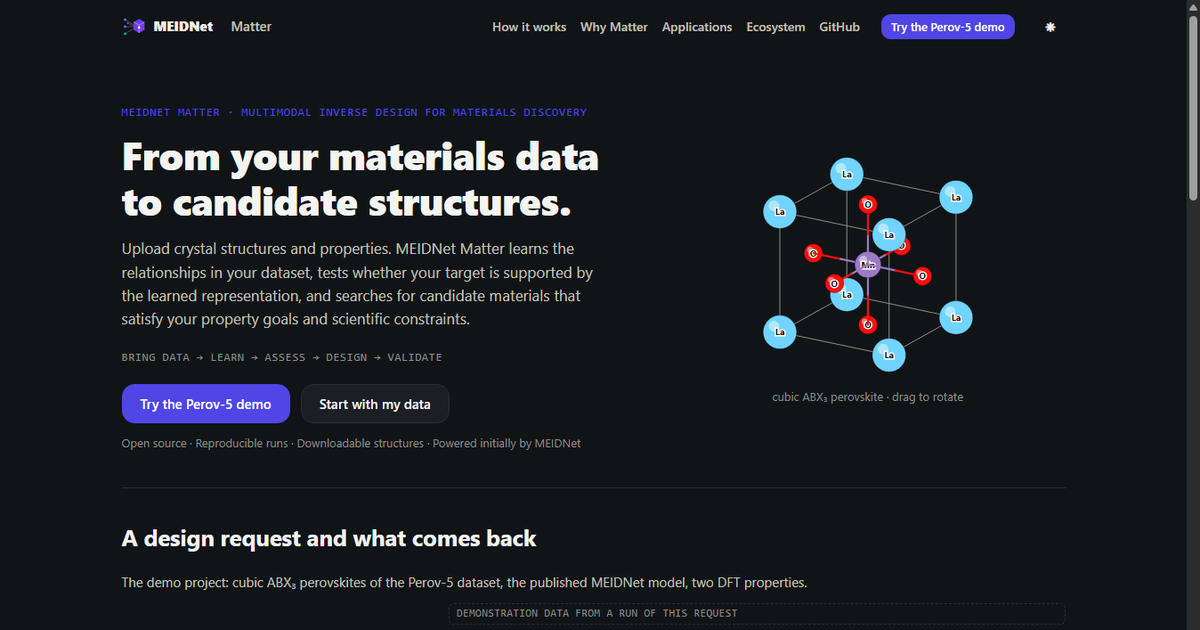
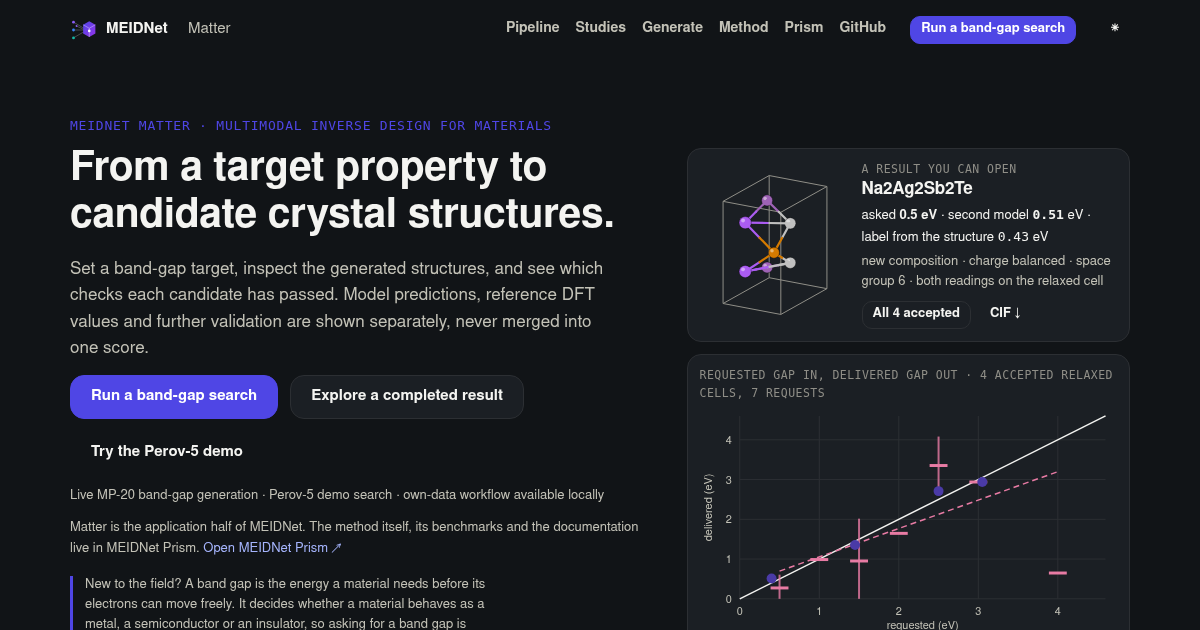
Front door: what Matter does in five lines, one main action, titles per page
README and the Space card: what, for whom, input, output, time. Page title, description, preview image and package
summary no longer promise an upload. Run a band-gap search is the one main action in the header and on the home page.
Every page has its own title; /demo leads to the demo and the old landing page is gone. The scope document describes
the two demo models, their trade-off and live generation without a template.

diff --git a/frontend/src/copy/landing.ts b/frontend/src/copy/landing.ts
@@ -1,45 +1,4 @@
 export const landing = {
-  eyebrow: 'MEIDNet Matter',
-  descriptor: 'Multimodal inverse design for materials discovery',
-  h1: 'From your materials data to candidate structures.',
-  lead: 'Upload crystal structures and properties. MEIDNet Matter learns the relationships in your dataset, tests whether your target is supported by the learned representation, and searches for candidate materials that satisfy your property goals and scientific constraints.',
-  promise: 'Bring data → learn → assess → design → validate',
-  ctaPrimary: 'Try the Perov-5 demo',
-  ctaSecondary: 'Start with my data',
-  trust: 'Open source · Reproducible runs · Downloadable structures · Powered initially by MEIDNet',
-  previewTitle: 'A design request and what comes back',
-  previewLead: 'The demo project: cubic ABX₃ perovskites of the Perov-5 dataset, two DFT properties and two MEIDNet models; the request below was run with the published model.',
-  how: [
-    ['Define the goal', 'Set a target value or range for each property and the chemistry rules a candidate must satisfy.'],
-    ['Check readiness', 'Matter measures how well the model predicts each property on held-out data, where your target sits in the training distribution and how many structures share it.'],
-    ['Search', 'A latent-space search proposes structures, decodes them and keeps those that satisfy the rules and the target.'],
-    ['Validate', 'Each candidate carries its predictions, domain status, rule results, nearest training materials and its stage on a six-step validation ladder. Export CIFs and targets.csv for MLIP screening, DFT or experiment, and score them on Prism.'],
-  ],
-  why: [
-    ['Know when not to trust the inverse', 'Before a search runs, the readiness report states whether the target lies inside the model\'s training range and how well each property is predicted on held-out data.'],
-    ['One property target, many possible structures', 'When many training materials share the target value, Matter says so, groups the candidates into clusters of alternatives and lets you prioritise target accuracy, diversity, stability or novelty.'],
-    ['Every candidate comes with evidence', 'Nearest training materials, latent distances, rule values, and the agreement between the encoder and the search are shown for every candidate.'],
-    ['Reproducible by design', 'A run bundle holds the goal, the model identity, the seed, the search settings, the candidates and their CIFs, with file hashes.'],
-  ],
-  applications: [
-    ['Oxide perovskites with a target band gap', 'The demo: a direct band gap near 2 eV with a bounded formation enthalpy, lead excluded.'],
-    ['Lead-free halide perovskites', 'The same workflow on the halide variant; the readiness report shows which anions the training data cover.'],
-    ['Double perovskites', 'A₂BB′X₆ cells with two B-site elements, with the same rules and evidence.'],
-  ],
-  scope: 'Matter currently searches property-conditioned candidates within supported structural families. Free-geometry crystal generation is planned as additional design backends mature.',
-  ecosystem: [
-    ['MEIDNet Prism', 'Learn · Benchmark · Develop', 'Learn the method, benchmark any model with the same metric families as LeMat-GenBench, develop with the meidnet package and the Studio.'],
-    ['MEIDNet Matter', 'Design & Discover', 'Bring data, define targets, check readiness, search, compare, validate and export candidates as versioned records.'],
-  ],
   citation: 'A. Babu, R. Almeida Gouvêa, P. Vandergheynst, G.-M. Rignanese, MEIDNet: Multimodal generative AI framework for inverse materials design, npj Computational Materials 12, 287 (2026).',
   doi: '10.1038/s41524-026-02153-3',
 };
-
-/** The request of the preview and the three candidates a real run of it returned (the published model, exploratory mode;
- * values as the API gave them: predicted, with their domain status and dataset check). */
-export const previewRequest = { gap: '1.5 ± 0.3 eV', dhf: '≤ 1.0 eV/atom', excluded: 'Pb', family: 'oxide perovskite' };
-export const previewCandidates = [
-  { formula: 'SrVO3', elements: { A: 'Sr', B: 'V', X: 'O' }, a: 4.08, gap: 1.48, dhf: 0.99, domain: 'Interpolating', rules: '8/8', novelty: 'Found in the Perov-5 dataset', agreement: 'disagree' },
-  { formula: 'CaTiO3', elements: { A: 'Ca', B: 'Ti', X: 'O' }, a: 4.22, gap: 1.5, dhf: -2.17, domain: 'Extrapolating', rules: '8/8', novelty: 'Found in the Perov-5 dataset', agreement: 'disagree' },
-  { formula: 'NaTaO3', elements: { A: 'Na', B: 'Ta', X: 'O' }, a: 4.16, gap: 1.51, dhf: -5.45, domain: 'Extrapolating', rules: '8/8', novelty: 'Found in the Perov-5 dataset', agreement: 'disagree' },
-];

diff --git a/frontend/src/App.tsx b/frontend/src/App.tsx
@@ -3,8 +3,8 @@ import { Navigate, Route, Routes, useLocation, useParams } from 'react-router';
 import { AppShell } from '@/components/shell';
 import { Spinner } from '@/components/ui';
 import { STATIC_MIRROR } from '@/lib/mirror';
+import { STUDY_DATASETS } from '@/copy/research';
 
-const Landing = lazy(() => import('@/pages/Landing'));
 const CreateProject = lazy(() => import('@/pages/CreateProject'));
 const ComingNext = lazy(() => import('@/pages/ComingNext'));
 const Privacy = lazy(() => import('@/pages/Privacy'));
@@ -32,6 +32,38 @@ const live = (el: ReactElement, title: string, what: string, path?: string) =>
 const GENERATE = 'Ask for a band gap and get crystal structures back, read by two models of different lineage; the generator runs on the live server.';
 const DEMO = 'The Perov-5 demo: set a goal, check the readiness of the data and the model, search, and export candidates with their evidence; the search runs on the live server.';
 
+/** Every page's own title, so tabs, history and bookmarks say where they lead. */
+const STUDY_TITLE = Object.fromEntries(STUDY_DATASETS) as Record<string, string>;
+const TITLES: Array<[RegExp, (m: RegExpMatchArray) => string]> = [
+  [/^\/pipeline\/(S\d)$/, (m) => `Block ${m[1]} · Pipeline`], [/^\/pipeline$/, () => 'Pipeline'],
+  [/^\/studies\/([\w-]+)$/, (m) => `${STUDY_TITLE[m[1]] ?? m[1]} study`], [/^\/studies$/, () => 'Studies'],
+  [/^\/play\/[\w-]+$/, () => 'Generation job'], [/^\/play$/, () => 'Generate for a band gap'],
+  [/^\/method$/, () => 'Method'], [/^\/privacy$/, () => 'Privacy'], [/^\/new$/, () => 'A new project'],
+  [/^\/start-with-my-data$/, () => 'Start with my data'],
+  [/^\/p\/[\w-]+\/goal$/, () => 'Goal · Perov-5 demo'], [/^\/p\/[\w-]+\/readiness$/, () => 'Readiness · Perov-5 demo'],
+  [/^\/p\/[\w-]+\/runs$/, () => 'Searches · Perov-5 demo'], [/^\/p\/[\w-]+\/runs\/[\w-]+\/export$/, () => 'Validate and export · Perov-5 demo'],
+  [/^\/p\/[\w-]+\/runs\/[\w-]+\/compare$/, () => 'Compare · Perov-5 demo'], [/^\/p\/[\w-]+\/runs\/[\w-]+\/c\/[\w-]+$/, () => 'Candidate · Perov-5 demo'],
+  [/^\/p\/[\w-]+\/runs\/[\w-]+$/, () => 'Candidates · Perov-5 demo'],
+];
+
+/** The home page's title: the same words as index.html's <title>, which the page loads with. */
+export const HOME_TITLE = 'MEIDNet Matter — crystal structures for a requested band gap, with the evidence';
+
+export function pageTitle(pathname: string): string {
+  if (pathname === '/') return HOME_TITLE;
+  for (const [re, f] of TITLES) {
+    const m = pathname.match(re);
+    if (m) return `${f(m)} · MEIDNet Matter`;
+  }
+  return 'MEIDNet Matter';
+}
+
+function TitleSync() {
+  const { pathname } = useLocation();
+  useEffect(() => { document.title = pageTitle(pathname); }, [pathname]);
+  return null;
+}
+
 /** A link to a section of a page (/studies/mp20#accepted): scroll to it once it is there (it arrives with the page's data).
  *  The browser does this by itself only on a full load, never inside the app, nor in the mirror, whose routes follow '#'. */
 function ScrollToSection() {
@@ -58,9 +90,10 @@ export default function App() {
   return (
     <Suspense fallback={<div className="wrap page"><Spinner /></div>}>
       <ScrollToSection />
+      <TitleSync />
       <Routes>
         <Route path="/" element={<Home />} />
-        <Route path="/demo" element={<Landing />} />
+        <Route path="/demo" element={<Navigate to={STATIC_MIRROR ? '/' : '/p/perov5-demo/goal'} replace />} />
         <Route path="/pipeline" element={<Pipeline />} />
         <Route path="/pipeline/:block" element={<PipelineBlock />} />
         <Route path="/studies" element={<Studies />} />

diff --git a/frontend/src/copy/research.ts b/frontend/src/copy/research.ts
@@ -9,7 +9,7 @@ export const home = {
   ctaExplore: 'Explore a completed result',
   ctaPlay: 'Run a band-gap search',
   ctaDemo: 'Try the Perov-5 demo',
-  scope: 'Live MP-20 band-gap generation · Perov-5 exploratory demo · own-data workflow available locally',
+  scope: 'Live MP-20 band-gap generation · Perov-5 demo search · own-data workflow available locally',
   prism: 'Matter is the application half of MEIDNet. The method itself, its benchmarks and the documentation live in MEIDNet Prism.',
   prismCta: 'Open MEIDNet Prism',
   plain: 'New to the field? A band gap is the energy a material needs before its electrons can move freely. It decides whether a material behaves as a metal, a semiconductor or an insulator, so asking for a band gap is asking for a kind of behaviour. The app proposes crystal structures that two machine-learning models of different lineage expect to have the gap you asked for, at the level of theory the data was computed with (PBE).',
@@ -18,7 +18,7 @@ export const home = {
   choicesTitle: 'Three ways in',
   choices: [
     ['Explore a result', 'The MP-20 study: 175 generated cells, 4 accepted by two judges on relaxed cells that passed the contact and bulk tests, the response curve, every structure and its evidence.', '/studies/mp20', 'Open the study'],
-    ['Set my target', 'Ask for one to three band gaps and get cells in seconds, each with a label read from its own structure, a second model\'s reading and three statuses kept apart. Or walk the Perov-5 demo: goal, readiness, candidates, export.', '/play', 'Run a band-gap search'],
+    ['Set my target', 'Ask for one to three band gaps and get cells within minutes, each with a label read from its own structure, a second model\'s reading and three statuses kept apart. Or walk the Perov-5 demo: goal, readiness, candidates, export.', '/play', 'Run a band-gap search'],
     ['Use my data locally', 'Nothing is uploaded on this site. Eight commands take a folder of structures and a property table through the same stages, with the same bands, on your computer; the code of every block is here to read and change.', '/method#run', 'The steps'],
   ],
   featuredTitle: 'The MP-20 study: requested in, delivered out',

diff --git a/frontend/index.html b/frontend/index.html
@@ -3,12 +3,12 @@
   <head>
     <meta charset="utf-8" />
     <meta name="viewport" content="width=device-width, initial-scale=1" />
-    <title>MEIDNet Matter — from your materials data to candidate structures</title>
-    <meta name="description" content="MEIDNet Matter is a multimodal inverse-design workbench for crystalline materials: define property targets and chemistry rules, see whether the data and the model support them, and search for candidate structures with their evidence." />
+    <title>MEIDNet Matter — crystal structures for a requested band gap, with the evidence</title>
+    <meta name="description" content="Ask for a band gap and get crystal structures back within minutes, each with two machine-learning readings of the PBE gap, its checks and its limits; the studies and the staged pipeline behind them are open, and the same stages run on your own data." />
     <meta property="og:type" content="website" />
     <meta property="og:site_name" content="MEIDNet Matter" />
-    <meta property="og:title" content="MEIDNet Matter — from your materials data to candidate structures" />
-    <meta property="og:description" content="Define property targets and chemistry rules, see whether the data and the model support them, and search for candidate crystal structures with their evidence." />
+    <meta property="og:title" content="MEIDNet Matter — crystal structures for a requested band gap, with the evidence" />
+    <meta property="og:description" content="Ask for a band gap and get crystal structures back within minutes, each with two machine-learning readings, its checks and its limits." />
     <meta property="og:image" content="/og.png" />
     <meta name="twitter:card" content="summary_large_image" />
     <link rel="icon" href="/favicon.svg" type="image/svg+xml" />

diff --git a/frontend/src/components/shell/index.tsx b/frontend/src/components/shell/index.tsx
@@ -50,7 +50,7 @@ export function MarketingHeader() {
           <ExternalLink href={PRISM_SPACE}>Prism</ExternalLink>
           <ExternalLink href={GITHUB}>GitHub</ExternalLink>
         </nav>
-        <Link to="/p/perov5-demo/goal" className="btn btn-primary btn-sm">Try the Perov-5 demo</Link>
+        <Link to="/play" className="btn btn-primary btn-sm">Run a band-gap search</Link>
         <ThemeToggle /><DirectAppLink />
       </div>
     </header>
@@ -62,7 +62,7 @@ export function SiteFooter() {
   return (
     <footer className="site">
       <div className="wrap-narrow">
-        <span>MEIDNet Matter: from your materials data to candidate structures. MEIDNet is the engine.</span>
+        <span>MEIDNet Matter: crystal structures for a requested band gap, with the evidence for each. MEIDNet is the engine.</span>
         <Link to="/pipeline">Pipeline</Link>
         <Link to="/studies">Studies</Link>
         <Link to="/play">Generate</Link>

diff --git a/frontend/src/App.title.test.ts b/frontend/src/App.title.test.ts
@@ -1,0 +1,16 @@
+import { readFileSync } from 'node:fs';
+import { describe, expect, it } from 'vitest';
+import { HOME_TITLE, pageTitle } from './App';
+
+describe('page titles', () => {
+  it('names each page, so tabs and bookmarks say where they lead', () => {
+    expect(pageTitle('/')).toBe(HOME_TITLE);
+    expect(readFileSync('index.html', 'utf8')).toContain(`<title>${HOME_TITLE}</title>`);
+    expect(pageTitle('/studies/mp20')).toBe('MP-20 study · MEIDNet Matter');
+    expect(pageTitle('/pipeline/S6')).toBe('Block S6 · Pipeline · MEIDNet Matter');
+    expect(pageTitle('/play/gen-abc')).toBe('Generation job · MEIDNet Matter');
+    expect(pageTitle('/p/perov5-demo/runs/run-x1/c/run-x1-003')).toBe('Candidate · Perov-5 demo · MEIDNet Matter');
+    expect(pageTitle('/p/perov5-demo/runs/run-x1')).toBe('Candidates · Perov-5 demo · MEIDNet Matter');
+    expect(pageTitle('/nowhere')).toBe('MEIDNet Matter');
+  });
+});

diff --git a/frontend/src/pages/Home.tsx b/frontend/src/pages/Home.tsx
@@ -36,8 +36,8 @@ export default function Home() {
             <h1>{H.h1}</h1>
             <p className="lead">{H.lead}</p>
             <div className="ctas">
-              <Link to="/studies/mp20" className="btn btn-primary btn-lg">{H.ctaExplore}</Link>
-              <Link to="/play" className="btn btn-lg">{H.ctaPlay}</Link>
+              <Link to="/play" className="btn btn-primary btn-lg">{H.ctaPlay}</Link>
+              <Link to="/studies/mp20" className="btn btn-lg">{H.ctaExplore}</Link>
               <Link to="/p/perov5-demo/goal" className="btn btn-lg btn-ghost" data-testid="cta-demo">{H.ctaDemo}</Link>
             </div>
             <div className="scope-line">{H.scope}</div>

diff --git a/README.md b/README.md
@@ -2,9 +2,14 @@
 
 # MEIDNet Matter
 
-**From your materials data to candidate structures.**
+**What:** crystal structures for a requested band gap, each with the evidence for it.  
+**For:** materials scientists choosing candidates to check by DFT, and anyone learning inverse design.  
+**Input:** one to three band-gap values (live, on MP-20); on your own computer, your own structures and properties.  
+**Output:** CIF files with two machine-learning readings of the PBE gap, charge balance, novelty against MP-20, and the
+command that relaxes them locally.  
+**Time:** seconds to a few minutes per request on the shared CPU, depending on how many structures you ask for; relaxation and DFT run on your side.
 
-MEIDNet Matter is a multimodal inverse-design workbench for crystalline materials. A researcher brings crystal structures and properties; Matter reports what the data and the model support (the Design Readiness report), then runs a constrained, property-conditioned search and returns candidate structures with their evidence and provenance. The scientific engine is [MEIDNet](https://github.com/ABnano/MEIDNet), imported as a package; the sibling platform [MEIDNet Prism](https://babu09-meidnet.hf.space/) is where to learn the method, reproduce the results and benchmark models.
+MEIDNet Matter is a multimodal inverse-design workbench for crystalline materials: it reports what the data and the model support (the Design Readiness report), then generates or searches candidate structures and returns them with their evidence and provenance. The scientific engine is [MEIDNet](https://github.com/ABnano/MEIDNet), imported as a package; the sibling platform [MEIDNet Prism](https://babu09-meidnet.hf.space/) is where to learn the method, reproduce the results and benchmark models.
 
 [![ci](https://github.com/ABnano/MEIDNet-Matter/actions/workflows/ci.yml/badge.svg)](https://github.com/ABnano/MEIDNet-Matter/actions/workflows/ci.yml)
 [![Space](https://img.shields.io/badge/%F0%9F%A4%97%20Space-MEIDNet--Matter-4f46e5)](https://huggingface.co/spaces/Babu09/MEIDNet-Matter)
@@ -13,11 +18,11 @@ MEIDNet Matter is a multimodal inverse-design workbench for crystalline material
 [![licence](https://img.shields.io/badge/licence-MIT-0a7d0a)](https://github.com/ABnano/MEIDNet-Matter/blob/main/LICENSE)
 [![paper](https://img.shields.io/badge/npj%20Comput.%20Mater.-2026-1c5cab)](https://doi.org/10.1038/s41524-026-02153-3)
 
-Matter currently searches property-conditioned candidates within supported structural families. Free-geometry crystal generation is planned as additional design backends mature.
+Matter generates crystal structures without a template (live, on MP-20) and searches within a structural family (the Perov-5 demo); the same stages run on your own data locally.
 
 ## Try it
 
-**Live:** https://babu09-meidnet-matter.hf.space/ — open the Perov-5 demo project, set a band-gap target, exclude lead, read the readiness report, run the search (about a minute on the shared CPU), open a candidate, download its CIF or the whole run bundle.
+**Live:** https://babu09-meidnet-matter.hf.space/ — **Run a band-gap search**: ask for one to three band gaps, get the generated cells with both readings, three statuses and the evidence for each, and download them with the command that relaxes them. Then the Perov-5 demo project: set a band-gap target, exclude lead, read the readiness report, run the search (about a minute on the shared CPU), open a candidate, download its CIF or the whole run bundle.
 
 **Mirror for any network:** https://abnano.github.io/MEIDNet-Matter/ — the same site on GitHub Pages, for networks that block
 `*.hf.space` (public Wi-Fi often does: the Space then shows a grey page). Everything that reads works there (studies, the
@@ -31,10 +36,11 @@ https://abnano.github.io/MEIDNet/.
 The home page opens on a worked result: a real accepted structure with both of its readings, a small requested-versus-delivered
 plot, an animated six-step walkthrough, and a rolling strip of the structures the generator delivered. From there: **Pipeline**
 (the ten blocks with their bands and code), **Studies** (Perov-5, Materials Project perovskites, an external upload, MP-20, with
-checkpoints), **Generate** (live band-gap generation on MP-20 with two independent readings per cell, 3D cards and an evidence
-map) and **Method** (mechanism, strengths, limits, and the commands that run the same stages on your own data: whatever route produced your candidates, one check gives them the qualified judge, relaxation by two potentials, both readings again on the relaxed cells, the energy above the hull with one potential for every phase, novelty, and a class: new, rediscovered, or contradicted by your data's own value). The Perov-5
-demo project below is the original flow and is kept as it was, with one change: every candidate now shows the
-**structure-based prediction** first and the **search value** beside it, and says which of the two supports the target.
+checkpoints), **Generate** (live band-gap generation on MP-20 with two readings per cell, the generator's label and a second model, 3D
+cards and an evidence map) and **Method** (mechanism, strengths, limits, and the commands that run the same stages on your own data: whatever route produced your candidates, one check gives them the qualified judge, relaxation by two potentials, both readings again on the relaxed cells, the energy above the hull with one potential for every phase, novelty, and a class: new, rediscovered, or contradicted by your data's own value). The Perov-5
+demo project below is the original flow with two changes: a retrained default model (the published one stays selectable), and
+every candidate shows the **structure-based prediction** first and the **search value** beside it, and says which of the two
+supports the target.
 
 
 | Step | What you get |
@@ -47,7 +53,7 @@ demo project below is the original flow and is kept as it was, with one change: 
 | **Export** | CIF per candidate, the candidate table, the candidate record (versioned: `meidnet-matter/candidate-record/1`, JSON Schema at `/api/schema/candidate-record`), and the run bundle: goal, engine configuration, metrics, readiness, candidates, CIFs, `targets.csv`, the record schema, a manifest with file hashes. |
 | **Score on Prism** | The bundle's `cifs/` and `targets.csv` are the input of `meidnet score` (MEIDNet 2.3.1 or later): validity, uniqueness, novelty, diversity, distribution and the conditional metrics, named as in LeMat-GenBench. The export page gives the commands; [the metrics are defined on Prism](https://babu09-meidnet.hf.space/docs/benchmarks/compatibility.html). |
 
-The demo project: cubic ABX₃ perovskites of the Perov-5 dataset, the published MEIDNet model, the direct band gap and the formation enthalpy. By the engine's thresholds the published model is weak on both properties on held-out data, so the demo opens its searches in exploratory mode by design; [docs/scientific-scope.md](https://github.com/ABnano/MEIDNet-Matter/blob/main/docs/scientific-scope.md) has the numbers and what the evidence shows instead.
+The demo project: cubic ABX₃ perovskites of the Perov-5 dataset, the direct band gap and the formation enthalpy, and two MEIDNet models. The default, retrained on the training split and chosen on the validation split, reads the formation enthalpy well and the band gap fairly on held-out data, so the default goal runs as a normal search (it rebuilds held-out structures less well than the earlier default, which the readiness report shows); the published model, still selectable, is weak on both by the engine's thresholds and runs in exploratory mode; [docs/scientific-scope.md](https://github.com/ABnano/MEIDNet-Matter/blob/main/docs/scientific-scope.md) has the numbers and what the evidence shows instead.
 
 Coming next (Phase 1): upload your own property table and CIF files, a data-quality report, training in the browser, readiness on your own held-out data, the same search with your model; then imports from Materials Project and NOMAD, a bring-your-own-model backend, and synthesis context linked from existing resources. [docs/data-format.md](https://github.com/ABnano/MEIDNet-Matter/blob/main/docs/data-format.md) describes the upload layout, the candidate record and `targets.csv`.
 
@@ -74,7 +80,7 @@ mirror or an offline machine:
 ```bash
 pip install --extra-index-url https://download.pytorch.org/whl/cpu \
   "meidnet @ https://github.com/ABnano/MEIDNet-Matter/releases/latest/download/meidnet-2.4.0.dev3-py3-none-any.whl" \
-  "meidnet-matter[judge] @ https://github.com/ABnano/MEIDNet-Matter/releases/latest/download/meidnet_matter-0.8.1-py3-none-any.whl"
+  "meidnet-matter[judge] @ https://github.com/ABnano/MEIDNet-Matter/releases/latest/download/meidnet_matter-0.9.0-py3-none-any.whl"
 ```
 
 `constraints.txt` is written by the release workflow from its own install check (Linux, Python 3.12); on another Python

diff --git a/docs/scientific-scope.md b/docs/scientific-scope.md
@@ -1,6 +1,6 @@
 # Scientific scope
 
-Matter currently searches property-conditioned candidates within supported structural families. Free-geometry crystal generation is planned as additional design backends mature.
+Matter generates crystal structures without a template (live, on MP-20) and searches within a structural family (the Perov-5 demo); the same stages run on your own data locally.
 
 ## What this version does
 
@@ -14,20 +14,23 @@ The Perov-5 demo project, end to end:
 | Candidates | For every candidate: predicted values against the target with the same domain status as the readiness report, the rules with their values and windows, the encoder's own prediction of the decoded composition and whether it agrees with the search's, the three nearest training materials with their DFT values, the amount of training data around the prediction, whether the dataset already holds the composition (by reduced formula and by A|B|X site assignment), the engine's flags, and a "why" sentence that only repeats these facts. |
 | Export | CIF per candidate, the candidate table as CSV (the domain status and the flags travel with it), the candidate record as JSON, and the run bundle with a manifest and file hashes. |
 
-## The demo's model and data
+## The demo's models and data
 
-* **Model:** the published Perov-5 model of the MEIDNet paper (a MEIDNet v1 checkpoint, 2.8 MB), two properties: the direct band gap (eV, training range 0–7.9) and the formation enthalpy (eV/atom, training range −0.64–5.16), cells of up to 20 sites, a 128-dimensional latent space. It was trained on all 18,928 materials, so the held-out numbers measured on the test split are optimistic; the report says so.
+* **Models:** two MEIDNet models of the same two properties, the direct band gap (eV, training range 0–7.9) and the formation enthalpy (eV/atom, training range −0.64–5.16), each with a 128-dimensional latent space.
+  * `desc-full-sp4`, the default: retrained on the 11,356-material training split with element descriptors and four times the weight on reading the properties from the structure, cells of up to 5 sites. Of the 15 checkpoints trained on the training split (six new desc-full variants and nine existing models), it reads the band gap best on the validation split; the rule was written down before the new ones finished training. On the 3,785 held-out test materials its band-gap error is 0.41 of the spread on the materials with a non-zero gap (fair) and its formation-enthalpy error 0.08 of the spread (good). The price of the choice: from the joint encoding it rebuilds the exact composition of 20 % of held-out structures (desc-full 58 %) and matches 17 % of them (50 %), which is one of the reasons the default goal is graded CAUTION; the inverse path, from a property target to a structure, is unchanged (38.9 % of sites).
+  * `meidnet-2k`, selectable: the published Perov-5 model of the MEIDNet paper (a MEIDNet v1 checkpoint, 2.8 MB), cells of up to 20 sites. It was trained on all 18,928 materials, so its numbers on the test split are optimistic; the report says so.
 * **Data:** Perov-5 (Castelli et al. 2012) in the CDVAE split (Xie et al. 2022): 11,356 / 3,787 / 3,785 materials. 96 % of the band gaps are exactly 0 eV, so the readiness tests for the band gap use the 441 training materials with a non-zero gap. Perov-5 contains no Cl, Br or I: a halide search runs on anions the model never saw, and the family-support indicator says so. 94 % of the materials share their exact property pair with at least ten others: one target, many structures.
-* **By the engine's thresholds the published model is weak on both properties** (band-gap MAE 1.68 eV against a spread of 1.56 eV on the non-zero gaps; formation-enthalpy MAE 0.404 eV/atom against 0.739), while the five nearest training structures in the latent space predict both well (0.02 and 0.06). The demo therefore opens its searches in exploratory mode by design: the chemistry rules apply as usual, the predicted values are labelled unreliable, and the evidence next to each candidate (the encoder's own prediction, the nearest training materials with their DFT values) shows where the search and the data disagree.
+* **With the default model the demo's default goal** (a 2.0 ± 0.3 eV band gap, formation enthalpy at most 1 eV/atom, lead excluded) is graded CAUTION and runs as a normal search: band-gap MAE 0.63 eV against a spread of 1.56 eV on the non-zero gaps (fair), formation-enthalpy MAE 0.057 eV/atom against 0.739 (good), and the decoder rebuilds held-out structures poorly (above).
+* **By the engine's thresholds the published model is weak on both properties** (band-gap MAE 1.68 eV against 1.56 eV; formation-enthalpy MAE 0.404 eV/atom against 0.739), while the five nearest training structures in the latent space read the formation enthalpy well (0.021 eV/atom) but not the non-zero band gaps (1.03 eV against 1.56, weak). With it the same goal is not recommended; since no other target changes a model's weakness, the page then leads with the exploratory search: the chemistry rules apply as usual, the predicted values are labelled unreliable, and the evidence next to each candidate (the encoder's own prediction, the nearest training materials with their DFT values) shows where the search and the data disagree.
 
 ## What this version does not do
 
-* No upload of your own data and no training (Phase 1).
-* No free-geometry generation: candidates are compositions placed on a family's prototype (cubic ABX₃ or A₂BB′X₆).
+* No upload in the browser: training, the scorecard and generation on your own data run on your own computer (the Method page has the commands).
+* The Perov-5 demo searches within a family: its candidates are compositions placed on the family's prototype (cubic ABX₃ or A₂BB′X₆). Generation without a template runs live on MP-20 (Generate).
 * No uncertainty per prediction (the model has no uncertainty head; the field is present and says so).
 * No stability screening, DFT or experiment here: every candidate stands at stage 0 ("Generated") or stage 1 ("Chemistry checked", every rule of the family passed) of the six-stage validation ladder (Generated · Chemistry checked · MLIP screened · DFT relaxed · DFT property confirmed · Experimentally tested). The later stages are the user's own steps; the run bundle's `cifs/` and `targets.csv` are laid out for `meidnet screen` and for `meidnet score` on Prism, and the candidate record keeps a place for each stage's result.
 * Clusters are a grouping of the search's own candidates by encoder latent (cosine ≥ 0.9), not a statement about polymorphs or phase stability: two candidates in one cluster are alternatives the model cannot tell apart well, not variants of one material.
-* A second model, the seed-3 re-run of the paper's alignment training, is not offered: measured the way this search uses it (after the projection heads) its property decoder gives a formation-enthalpy error of 5.3 eV/atom. It aligns before the heads, and a readiness measured in its own space is future work.
+* The seed-3 re-run of the paper's alignment training is not offered: measured the way this search uses it (after the projection heads) its property decoder gives a formation-enthalpy error of 5.3 eV/atom. It aligns before the heads, and a readiness measured in its own space is future work.
 
 ## Evidence labels
 
